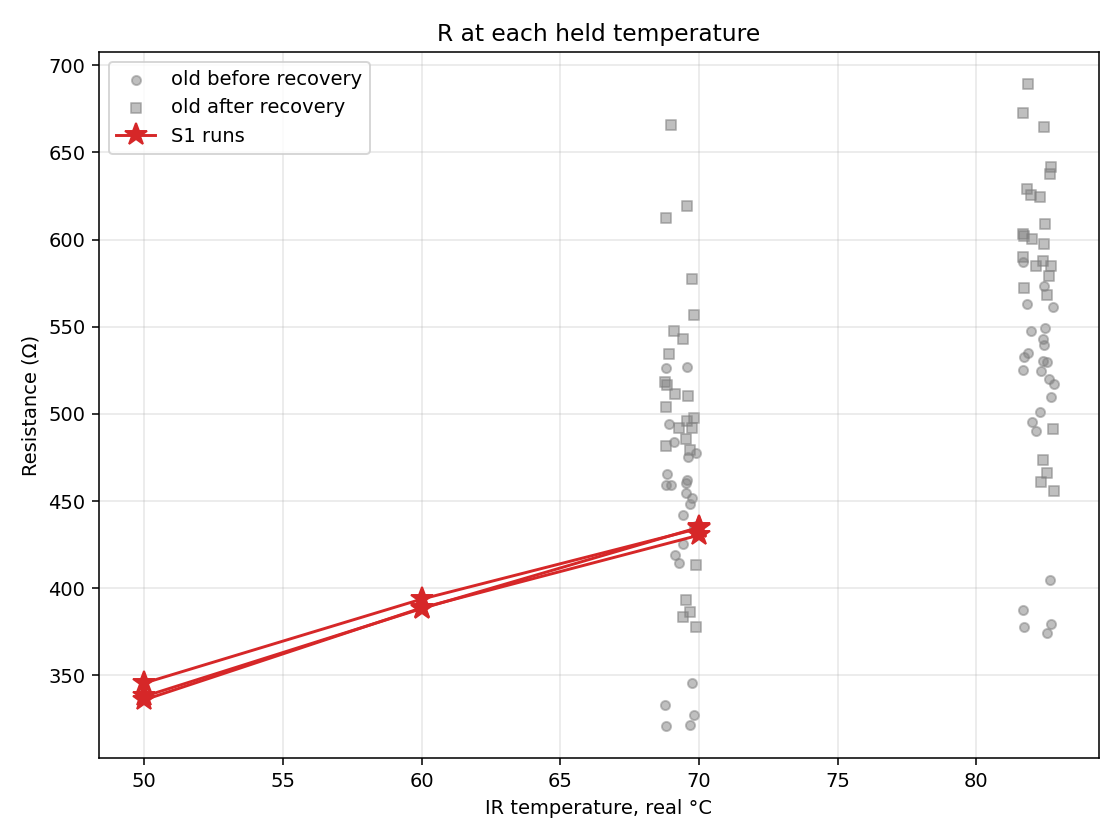
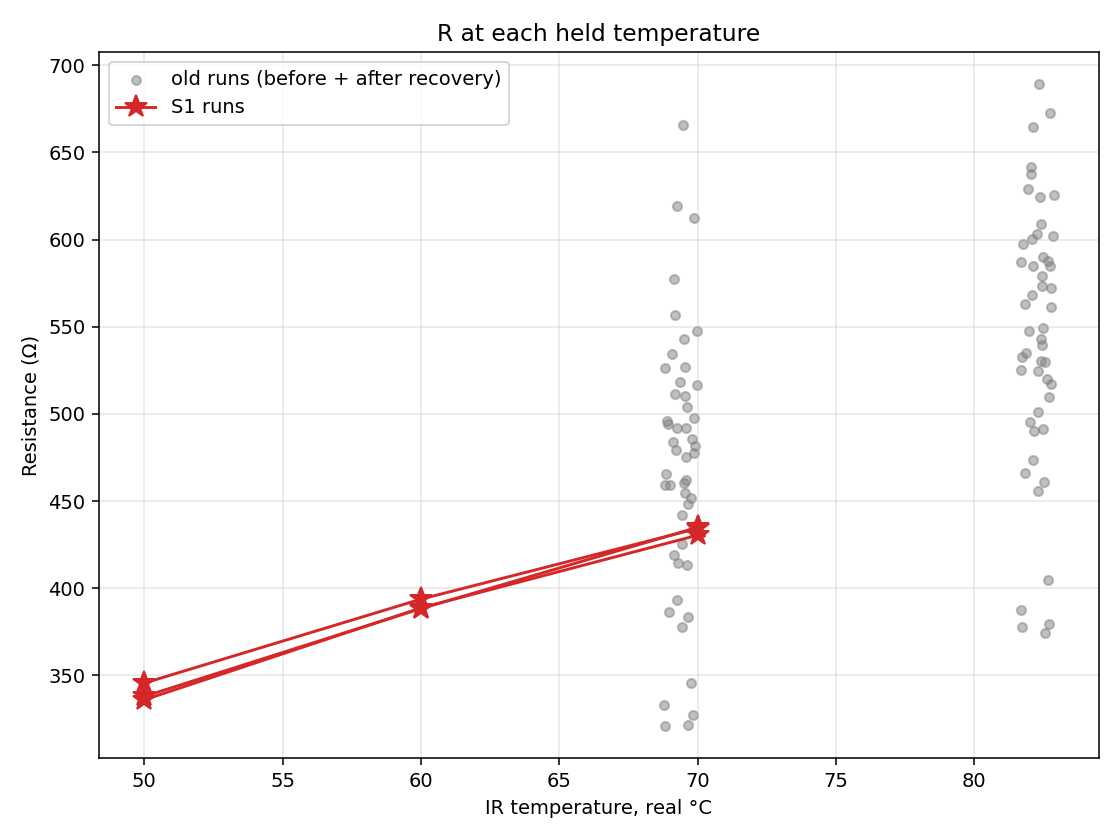
S1 comparison: old before + after recovery combined into one group

diff --git a/IR+Resist(3 Nov)/output (26-11-03)/s1_vs_old.py b/IR+Resist(3 Nov)/output (26-11-03)/s1_vs_old.py
@@ -28,17 +28,15 @@ for _, r in s1.iterrows():
                          error_pct=(pred / act - 1) * 100, error_C=(pred - act) / (A1 * np.log(r.x_meas) + B1)))
 cmp = pd.DataFrame(rows).round(3); cmp.to_csv(os.path.join(HERE, "S1_vs_old_model.csv"), index=False)
 summ = [("S1 (3 runs)", s1.dR_dt_ohm_s.mean(), s1.initial_resistance_ohm.mean(), s1.pulse_power_measured_mW.mean(), s1.x_meas.mean(), None, None)]
-for g, d in old.groupby("group"):
-    summ.append((f"old {g} recovery ({len(d)} runs)", d.dR_dt_ohm_s.mean(), d.initial_resistance_ohm.mean(), d.power_at_100pct_pwm_mW.mean(), d.x.mean(), d.actual_R60_ohm.mean(), d.actual_R70_ohm.mean()))
+d = old
+summ.append((f"old runs, before + after recovery ({len(d)} runs)", d.dR_dt_ohm_s.mean(), d.initial_resistance_ohm.mean(), d.power_at_100pct_pwm_mW.mean(), d.x.mean(), d.actual_R60_ohm.mean(), d.actual_R70_ohm.mean()))
 pd.DataFrame(summ, columns=["set", "dR_dt", "R0", "pulse_power_mW", "x", "old R at real 69.4 C", "old R at real 82.3 C"]).round(1).to_csv(os.path.join(HERE, "S1_vs_old_summary.csv"), index=False)
 
 # ---- graph 1: R vs x, colour = real temperature ----
 COL = {50: "#2a9d8f", 60: "#3a7bd5", 69.39: "#f4a261", 70: "#e76f51", 82.27: "#9d0208"}; col = COL.__getitem__
 fig, ax = plt.subplots(figsize=(9, 6.5)); xs = np.linspace(5, 200, 300)
-for g, mk in (("before", "o"), ("after", "s")):
-    d = old[old.group == g]
-    for k, T in T_OLD.items():
-        ax.scatter(d.x, d[f"actual_R{k}_ohm"], marker=mk, s=28, c=[col(T)], alpha=.55, zorder=2, label=f"old {g} recovery, {T} °C" if True else None)
+for k, T in T_OLD.items():
+    ax.scatter(old.x, old[f"actual_R{k}_ohm"], marker="o", s=28, c=[col(T)], alpha=.55, zorder=2, label=f"old runs (before + after recovery), {T} °C")
 for T in (50, 60, 69.39, 82.27):
     ax.plot(xs, model(T, xs), c=col(T), lw=1.2, ls="--", alpha=.8, label=f"old model at {T:g} °C")
 for T in temps:
@@ -49,10 +47,8 @@ fig.tight_layout(); fig.savefig(os.path.join(HERE, "S1_vs_old_R_vs_x.png"), dpi=
 
 # ---- graph 2: R against real temperature ----
 fig, ax = plt.subplots(figsize=(8, 6))
-for g, mk in (("before", "o"), ("after", "s")):
-    d = old[old.group == g]
-    for k, T in T_OLD.items():
-        ax.scatter(np.full(len(d), T) + np.random.default_rng(0).uniform(-.6, .6, len(d)), d[f"actual_R{k}_ohm"], marker=mk, s=22, c="gray", alpha=.5, label=f"old {g} recovery" if k == 60 else None)
+for k, T in T_OLD.items():
+    ax.scatter(np.full(len(old), T) + np.random.default_rng(0).uniform(-.6, .6, len(old)), old[f"actual_R{k}_ohm"], marker="o", s=22, c="gray", alpha=.5, label="old runs (before + after recovery)" if k == 60 else None)
 for i, r in s1.iterrows():
     ax.plot(temps, [r[f"actual_R{T}_ohm"] for T in temps], "-*", c="C3", ms=12, lw=1.5, label="S1 runs" if i == 0 else None)
 ax.set_xlabel("IR temperature, real °C"); ax.set_ylabel("Resistance (Ω)"); ax.grid(alpha=.3); ax.legend(); ax.set_title("R at each held temperature")
@@ -62,4 +58,4 @@ print(pd.DataFrame(summ, columns=["set", "dR_dt", "R0", "P", "x", "R69.4", "R82.
 print(cmp[["run", "T_real_C", "x_measured_P", "x_nominal_800", "actual_R", "old_model_R", "error_ohm", "error_pct", "error_C"]].round(1).to_string(index=False))
 print(cmp.groupby("T_real_C")[["actual_R", "old_model_R", "error_ohm", "error_pct", "error_C"]].mean().round(1))
 print("S1 slope ohm/C (50->70):", ((s1.actual_R70_ohm - s1.actual_R50_ohm) / 20).round(2).tolist(), "| old model slope at x=15:", round(B1 + A1 * np.log(15) + A0 * 0, 2), "(+ ln x term x A1)")
-print("old per-sample mean R at real 69.4 / 82.3, R0:"); print(old.groupby(["group", "sample"])[["initial_resistance_ohm", "actual_R60_ohm", "actual_R70_ohm"]].mean().round(0).to_string())
+print("old per-sample mean R0, R at real 69.4 / 82.3:"); print(old.groupby("sample")[["initial_resistance_ohm", "actual_R60_ohm", "actual_R70_ohm"]].mean().round(0).to_string())
